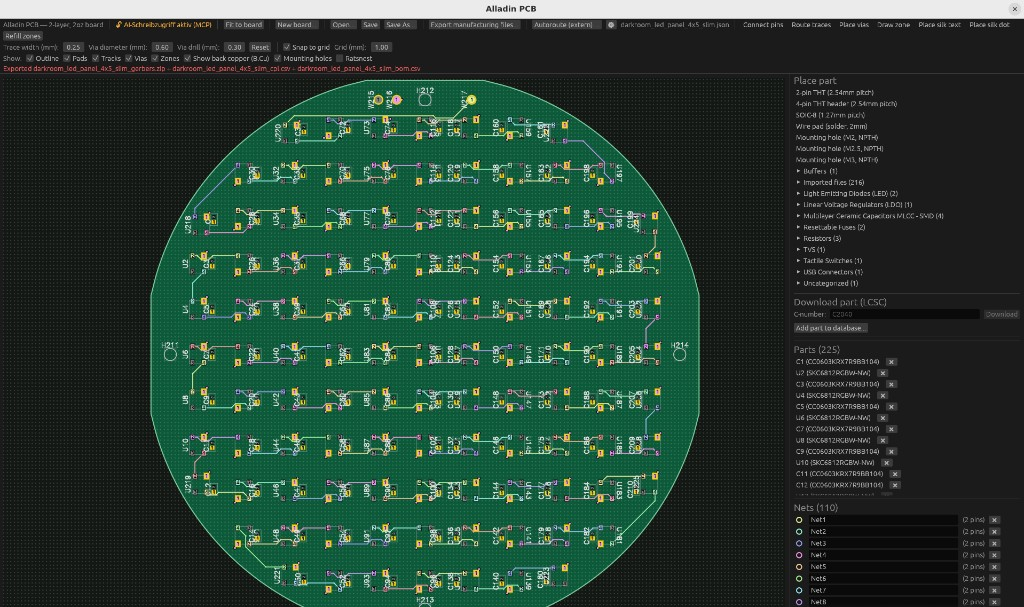
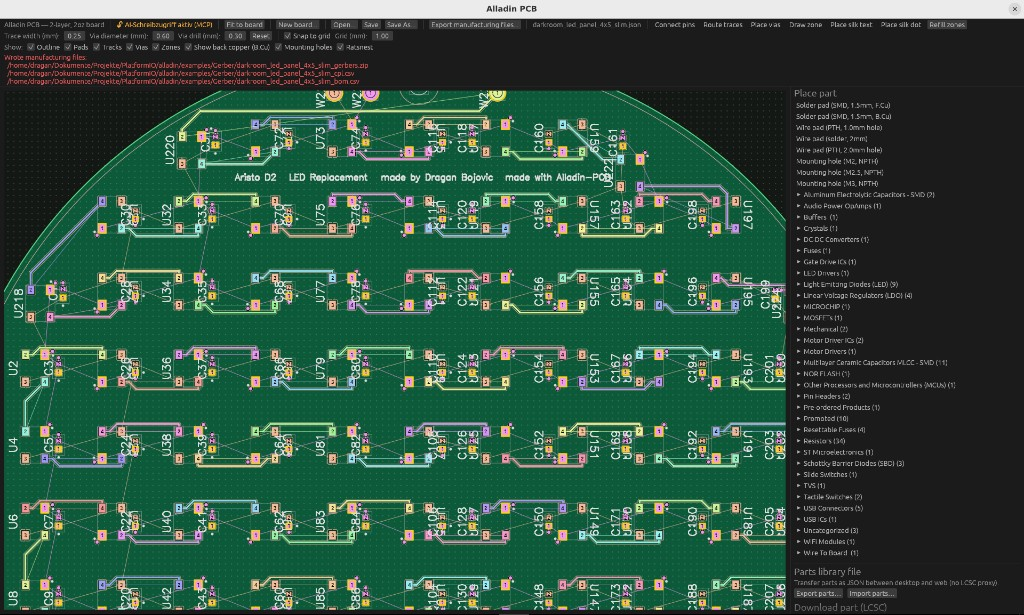
Document correct-by-construction with a JLCPCB SMT DFM shot of the darkroom panel.
Refresh the editor screenshot and add the fab view that shows assembly checks staying clean after Alladin's live gates.

diff --git a/ANLEITUNG_FUER_ANFAENGER.md b/ANLEITUNG_FUER_ANFAENGER.md
@@ -258,6 +258,12 @@ regelkonform. Vor der Bestellung trotzdem drei Dinge prüfen:
    Platinenkontur, die Lagen und die Ausrichtung gepolter Bauteile
    (Pin-1-Marker) kontrollieren.
 
+Dasselbe Board (Darkroom-LED-Panel) in JLCPCBs SMT-DFM: Kollision,
+Pad-Abstand und Kontur bleiben bei 0, weil Alladin ungültige
+Platzierung nicht zulässt.
+
+![JLCPCB SMT DFM, Darkroom-LED-Panel](docs/jlcpcb-smt-dfm-darkroom.png)
+
 ## 13. Fertigungsdaten erzeugen
 
 Oben auf **„Export manufacturing files…"** klicken und einen Ordner

diff --git a/README.md b/README.md
@@ -19,6 +19,12 @@ Architecture: [docs/architecture.md](docs/architecture.md).
 
 ![Alladin PCB](docs/screenshot.png)
 
+The same board in JLCPCB's SMT DFM viewer. Assembly checks stay clean
+because illegal poses never land on the board — that is
+correct-by-construction in practice:
+
+![JLCPCB SMT DFM on the darkroom LED panel](docs/jlcpcb-smt-dfm-darkroom.png)
+
 ## Download (precompiled, nothing to build)
 
 Grab the ready-to-run beta from the

diff --git a/dist/beta-package/README.md b/dist/beta-package/README.md
@@ -19,6 +19,12 @@ Architecture: [docs/architecture.md](docs/architecture.md).
 
 ![Alladin PCB](docs/screenshot.png)
 
+The same board in JLCPCB's SMT DFM viewer. Assembly checks stay clean
+because illegal poses never land on the board — that is
+correct-by-construction in practice:
+
+![JLCPCB SMT DFM on the darkroom LED panel](docs/jlcpcb-smt-dfm-darkroom.png)
+
 ## Download (precompiled, nothing to build)
 
 Grab the ready-to-run beta from the

diff --git a/dist/beta-package/docs/HANDBUCH.md b/dist/beta-package/docs/HANDBUCH.md
@@ -495,6 +495,12 @@ Bestellablauf bei JLCPCB:
 5. In der Bestückungsvorschau (2D/3D) die Ausrichtung gepolter
    Bauteile kontrollieren (Pin-1-Marker), dann bestellen.
 
+Die SMT-DFM-Ansicht desselben Exports (Darkroom-LED-Panel) — kein
+Kollisions- oder Pad-Fehler, weil die Regeln schon beim Platzieren
+greifen:
+
+![JLCPCB SMT DFM, Darkroom-LED-Panel](jlcpcb-smt-dfm-darkroom.png)
+
 Vorher: einmal „Refill zones" und speichern.
 
 

diff --git a/docs/HANDBUCH.md b/docs/HANDBUCH.md
@@ -495,6 +495,12 @@ Bestellablauf bei JLCPCB:
 5. In der Bestückungsvorschau (2D/3D) die Ausrichtung gepolter
    Bauteile kontrollieren (Pin-1-Marker), dann bestellen.
 
+Die SMT-DFM-Ansicht desselben Exports (Darkroom-LED-Panel) — kein
+Kollisions- oder Pad-Fehler, weil die Regeln schon beim Platzieren
+greifen:
+
+![JLCPCB SMT DFM, Darkroom-LED-Panel](jlcpcb-smt-dfm-darkroom.png)
+
 Vorher: einmal „Refill zones" und speichern.
 
 

diff --git a/dist/beta-package/docs/MANUAL.md b/dist/beta-package/docs/MANUAL.md
@@ -475,6 +475,12 @@ Ordering at JLCPCB:
 5. In the placement preview (2D/3D), check the orientation of polarized
    parts (pin-1 markers), then order.
 
+The SMT DFM view of that same export (darkroom LED panel) — no
+collision or pad-spacing errors, because the rules already ran at
+placement time:
+
+![JLCPCB SMT DFM, darkroom LED panel](jlcpcb-smt-dfm-darkroom.png)
+
 Before all this: hit "Refill zones" once and save.
 
 

diff --git a/docs/MANUAL.md b/docs/MANUAL.md
@@ -475,6 +475,12 @@ Ordering at JLCPCB:
 5. In the placement preview (2D/3D), check the orientation of polarized
    parts (pin-1 markers), then order.
 
+The SMT DFM view of that same export (darkroom LED panel) — no
+collision or pad-spacing errors, because the rules already ran at
+placement time:
+
+![JLCPCB SMT DFM, darkroom LED panel](jlcpcb-smt-dfm-darkroom.png)
+
 Before all this: hit "Refill zones" once and save.
 
 
